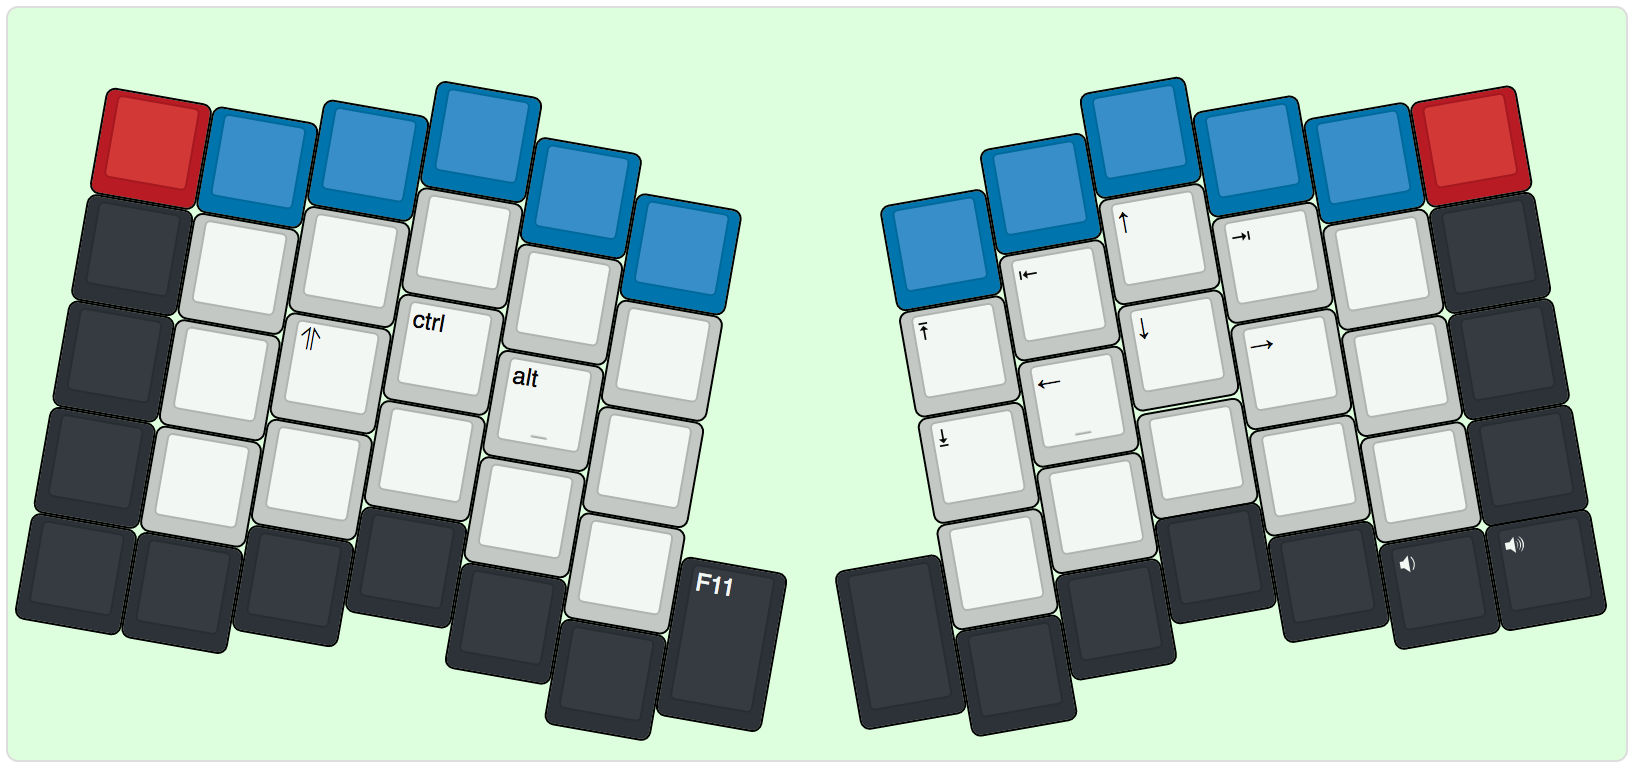
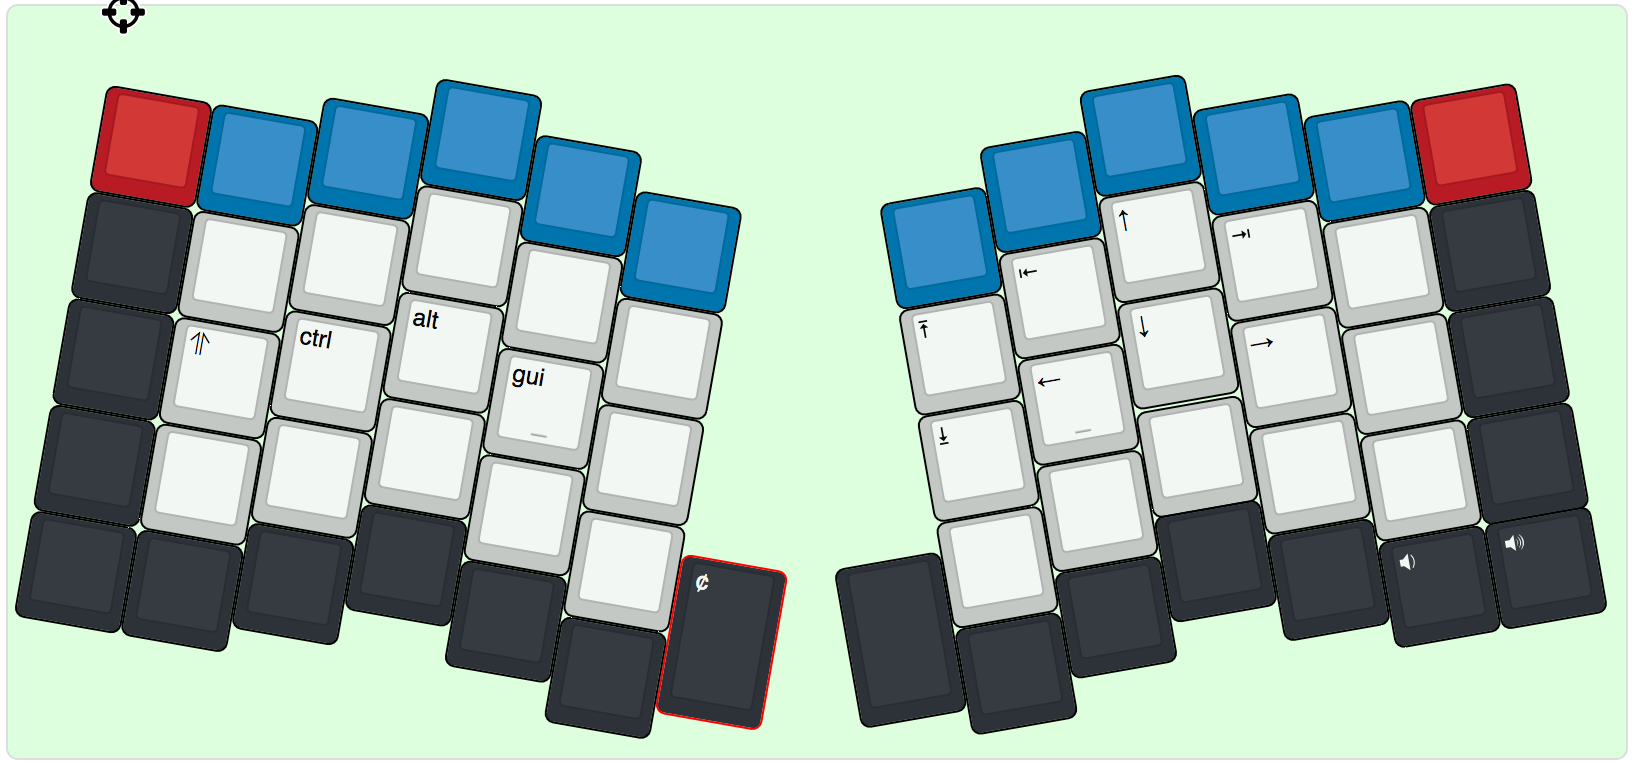
- Change docs to match keymap. - Switched around modifiers on the function layer to match muscle memory. - Added support for application switching.

diff --git a/keyboards/atreus62/keymaps/mneme/keymap.c b/keyboards/atreus62/keymaps/mneme/keymap.c
@@ -4,7 +4,6 @@
 #include "action_layer.h"
 #include "action_util.h"
 
-//avrdude -p atmega32u4 -P /dev/tty.usbmodem1411  -c avr109  -U flash:w:atreus63_default.hex
 /*
  *WINDOWS SWEDISH
  */
@@ -101,19 +100,19 @@ const uint16_t PROGMEM keymaps[][MATRIX_ROWS][MATRIX_COLS] = {
   [BASE] = {
 
    { M(KF_11) ,M(KF_1)  ,M(KF_2)  ,M(KF_3)  ,M(KF_4) ,M(KF_5)         ,KC_NO   ,M(KF_6)        ,M(KF_7) ,M(KF_8) ,M(KF_9) ,M(KF_10) ,M(KF_12) },
-   { KC_HYP   ,KC_Q     ,KC_W     ,KC_E     ,KC_R    ,KC_T            ,KC_NO   ,KC_Y           ,KC_U    ,KC_I    ,KC_O    ,KC_P     ,KN_AO },
+   { KC_TAB   ,KC_Q     ,KC_W     ,KC_E     ,KC_R    ,KC_T            ,KC_NO   ,KC_Y           ,KC_U    ,KC_I    ,KC_O    ,KC_P     ,KN_AO },
    { OSM_LCTL ,KC_A     ,KC_S     ,KC_D     ,KC_F    ,KC_G            ,KC_NO   ,KC_H           ,KC_J    ,KC_K    ,KC_L    ,KN_OE    ,KN_AE },
    { OSM_LSFT ,KC_Z     ,KC_X     ,KC_C     ,KC_V    ,KC_B            ,KC_DELT ,KC_N           ,KC_M    ,KC_COMM ,KC_DOT  ,KN_MINS  ,OSM_LSFT },
-   { MO(NAV)  ,OSM_LCTL ,OSM_LALT ,KC_LGUI  ,KC_SPC  ,LT(SYM,KC_BSPC) ,KC_TAB  ,LT(SYM,KC_ENT) ,KC_SPC  ,KC_LEAD ,KC_LALT ,KC_LCTRL ,MO(NAV) }
+   { MO(NAV)  ,OSM_LCTL ,OSM_LALT ,KC_LGUI  ,KC_SPC  ,LT(SYM,KC_BSPC) ,KC_HYP  ,LT(SYM,KC_ENT) ,KC_SPC  ,KC_LEAD ,KC_LALT ,KC_LCTRL ,MO(NAV) }
 
  },
   [NAV] = {
 
    { KC_TRNS  ,KC_TRNS  ,KC_TRNS  ,KC_TRNS  ,KC_TRNS  ,KC_TRNS  ,KC_TRNS ,KC_TRNS  ,KC_TRNS  ,KC_TRNS  ,KC_TRNS  ,KC_TRNS  ,KC_TRNS },
    { KC_TRNS  ,KC_TRNS  ,KC_TRNS  ,KC_TRNS  ,KC_TRNS  ,KC_TRNS  ,KC_NO   ,KC_PGUP  ,KC_HOME  ,KC_UP    ,KC_END   ,KC_TRNS  ,KC_TRNS },
-   { KC_TRNS  ,KC_TRNS  ,KC_LSFT  ,KC_LCTL  ,KC_LALT  ,KC_TRNS  ,KC_NO   ,KC_PGDN  ,KC_LEFT  ,KC_DOWN  ,KC_RIGHT ,KC_TRNS  ,KC_TRNS },
-   { KC_TRNS  ,KC_TRNS  ,KC_TRNS  ,KC_TRNS  ,KC_TRNS  ,KC_TRNS  ,KC_F11  ,KC_TRNS  ,KC_TRNS  ,KC_TRNS  ,KC_TRNS  ,KC_TRNS  ,KC_TRNS },
-   { KC_TRNS  ,KC_TRNS  ,KC_TRNS  ,KC_TRNS  ,KC_TRNS  ,KC_TRNS  ,KC_F12  ,KC_TRNS  ,KC_TRNS  ,KC_TRNS  ,KC_TRNS  ,KC_VOLD  ,KC_VOLU }
+   { KC_TRNS  ,KC_LSFT  ,KC_LCTL  ,KC_LALT  ,KC_L  ,KC_TRNS  ,KC_NO   ,KC_PGDN  ,KC_LEFT  ,KC_DOWN  ,KC_RIGHT ,KC_TRNS  ,KC_TRNS },
+   { KC_TRNS  ,KC_TRNS  ,KC_TRNS  ,KC_TRNS  ,KC_TRNS  ,KC_TRNS  ,KC_TRNS ,KC_TRNS  ,KC_TRNS  ,KC_TRNS  ,KC_TRNS  ,KC_TRNS  ,KC_TRNS },
+   { KC_TRNS  ,KC_TRNS  ,KC_TRNS  ,KC_TRNS  ,KC_TRNS  ,KC_TRNS  ,KC_TRNS ,KC_TRNS  ,KC_TRNS  ,KC_TRNS  ,KC_TRNS  ,KC_VOLD  ,KC_VOLU }
 
   },
   [SYM] = {
@@ -179,7 +178,6 @@ static void m_handle_kf (keyrecord_t *record, uint8_t id) {
 }
 
 const uint16_t PROGMEM fn_actions[] = {
-
 };
 
 const macro_t *action_get_macro(keyrecord_t *record, uint8_t id, uint8_t opt)
@@ -269,22 +267,51 @@ void matrix_scan_user(void) {
       unregister_code(KC_RGUI);
     };
 
-    SEQ_TWO_KEYS(KC_F, KC_S){
-      register_code(KC_LCTRL);
-      TAP_ONCE(KC_S);
-      unregister_code(KC_LCTRL);
-    };
 
-    SEQ_TWO_KEYS(KC_B, KC_D){
-      register_code(KC_LCTRL);
-      TAP_ONCE(KC_W);
-      unregister_code(KC_LCTRL);
-    };
+    SEQ_TWO_KEYS (KC_A, KC_W) {
+      //Web - chrome
+      register_code (KC_LGUI); TAP_ONCE (KC_1); unregister_code (KC_LGUI);
+    }
+    SEQ_TWO_KEYS (KC_A, KC_P) {
+      //sPotify
+      register_code (KC_LGUI); TAP_ONCE (KC_2); unregister_code (KC_LGUI);
+
+    }
+    SEQ_TWO_KEYS (KC_A, KC_T) {
+      //Total Commander
+      register_code (KC_LGUI); TAP_ONCE (KC_3); unregister_code (KC_LGUI);
+
+    }
+    SEQ_TWO_KEYS (KC_A, KC_A) {
+      //Atom
+      register_code (KC_LGUI); TAP_ONCE (KC_4); unregister_code (KC_LGUI);
+
+    }
+    SEQ_TWO_KEYS (KC_A, KC_E) {
+      //Emacs
+      register_code (KC_LGUI); TAP_ONCE (KC_5); unregister_code (KC_LGUI);
+
+    }
+    SEQ_TWO_KEYS (KC_A, KC_C) {
+      //Cmdr
+      register_code (KC_LGUI); TAP_ONCE (KC_6); unregister_code (KC_LGUI);
+
+    }
+    SEQ_TWO_KEYS (KC_A, KC_S) {
+      //Slack
+      register_code (KC_LGUI); TAP_ONCE (KC_7); unregister_code (KC_LGUI);
+    }
+
 
     SEQ_TWO_KEYS (KC_S, KC_S) {
       // ¯\_(ツ)_/¯
       unicode_input_start(); register_hex(0xaf); unicode_input_finish();
-      register_code (KC_RALT); TAP_ONCE (KN_PLUS); unregister_code (KC_RALT);
+      register_code (KC_LALT);
+      register_code (KC_LCTL);
+      TAP_ONCE (KN_PLUS);
+      unregister_code (KC_LCTL);
+      unregister_code (KC_LALT);
+
       register_code (KC_RSFT); TAP_ONCE (KC_8); unregister_code (KC_RSFT);
       unicode_input_start (); register_hex(0x30c4); unicode_input_finish();
       register_code (KC_RSFT); TAP_ONCE (KC_9); TAP_ONCE(KC_7); unregister_code (KC_RSFT);

diff --git a/keyboards/atreus62/keymaps/mneme/README.md b/keyboards/atreus62/keymaps/mneme/README.md
@@ -33,8 +33,7 @@ It's for Windows (current work forces me to) and Swedish (matter of birth) so ym
     - `LEAD s l` : `λ`.
     - `LEAD s s` : `¯\_(ツ)_/¯`
     - `LEAD s f` : `凸(ツ)凸`
-    - `LEAD f s` : `ctrl+s`
-    - `LEAD b d` : `ctrl+w`
+    - `LEAD a *` : Application switching based on position in start menu. Very specific to my computer.
 
 
 ## Nav layer
@@ -48,7 +47,10 @@ by for the left. The latter because I tend to use `ctrl+arrows` quite a lot.
 
 ![Sym layer](img/sym.png)
 
-Easy access to most symbols I use on a daily basis. Most common are on the home row, the rest are grouped as best as I could.
+* Easy access to most symbols I use on a daily basis. Most common are on the home row, the rest are grouped as best as I could.
+
+- `eq` : Tapdance, produces `===` and `!==`
+- `fun`: Tapdance, produces `=>` and `() => {\n`
 
 # License
   GPL-3+
